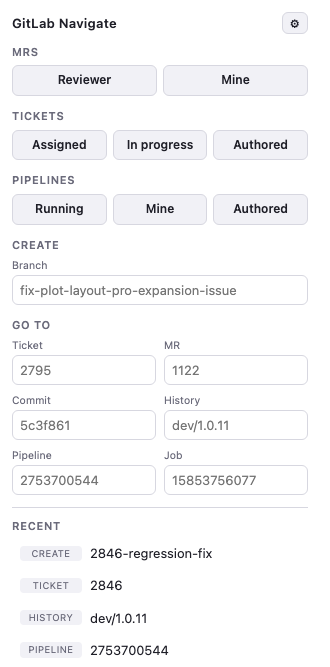
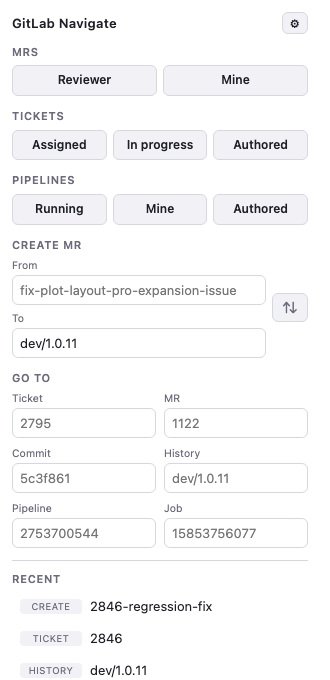
Create MR: From/To boxes with a swap control (0.15.0)

diff --git a/popup.js b/popup.js
@@ -45,8 +45,11 @@ const targetBranchError = document.getElementById('target-branch-error');
 const usernameInput = document.getElementById('username-input');
 const usernameSave = document.getElementById('username-save');
 const usernameError = document.getElementById('username-error');
-const refInputs = [...document.querySelectorAll('input[data-type]')];
+const refInputs = [...document.querySelectorAll('#refs input[data-type]')];
 const ticketInput = document.getElementById('ticket');
+const mrFrom = document.getElementById('mr-from');
+const mrTo = document.getElementById('mr-to');
+const fromToSwap = document.getElementById('from-to-swap');
 const swapMr = document.getElementById('swap-mr');
 const swapMrButton = document.getElementById('swap-mr-button');
 const mrReviewer = document.getElementById('mr-reviewer');
@@ -81,7 +84,7 @@ function errorFor(input) {
 }
 
 function setInputsEnabled(enabled) {
-  for (const input of refInputs) input.disabled = !enabled;
+  for (const input of [...refInputs, mrFrom, mrTo]) input.disabled = !enabled;
 }
 
 function openSettings() {
@@ -162,6 +165,47 @@ async function submitReference(input) {
   navigate(url);
 }
 
+async function submitCreateMr() {
+  const fromError = errorFor(mrFrom);
+  const toError = errorFor(mrTo);
+  clearError(fromError);
+  clearError(toError);
+
+  if (!mrFrom.value.trim()) {
+    showError(fromError, 'Enter a source branch name');
+    return;
+  }
+  if (!mrTo.value.trim()) {
+    showError(toError, 'Enter a target branch name');
+    return;
+  }
+
+  let url;
+  try {
+    url = buildUrl('createMr', mrFrom.value, base, mrTo.value);
+  } catch (err) {
+    if (err instanceof ParseError) {
+      showError(fromError, err.message);
+      return;
+    }
+    throw err;
+  }
+
+  await pushHistory({
+    type: 'createMr',
+    value: `${mrFrom.value.trim()} \u2192 ${mrTo.value.trim()}`,
+    url,
+  });
+  navigate(url);
+}
+
+function swapFromTo() {
+  [mrFrom.value, mrTo.value] = [mrTo.value, mrFrom.value];
+  clearError(errorFor(mrFrom));
+  clearError(errorFor(mrTo));
+  mrFrom.focus();
+}
+
 async function saveBase() {
   clearError(baseError);
 
@@ -211,8 +255,13 @@ async function saveTargetBranch() {
     return;
   }
 
+  const previous = targetBranch;
   targetBranch = trimmed;
   await setTargetBranch(targetBranch);
+
+  // Refresh the To box only while it still holds the old default, so a target the
+  // user typed by hand for this one MR survives a settings save.
+  if (!mrTo.value.trim() || mrTo.value.trim() === previous) mrTo.value = targetBranch;
 }
 
 async function saveUsername() {
@@ -273,6 +322,16 @@ baseInput.addEventListener('keydown', (event) => {
 });
 
 swapMrButton.addEventListener('click', doSwapMr);
+fromToSwap.addEventListener('click', swapFromTo);
+
+for (const input of [mrFrom, mrTo]) {
+  input.addEventListener('keydown', (event) => {
+    if (event.key !== 'Enter') return;
+    event.preventDefault();
+    submitCreateMr();
+  });
+  input.addEventListener('input', () => clearError(errorFor(input)));
+}
 
 mrReviewer.addEventListener('click', () => goToUserList(reviewerMrUrl));
 mrMine.addEventListener('click', () => goToUserList(mineMrUrl));
@@ -303,6 +362,7 @@ async function init() {
   base = await getBase();
   targetBranch = await getTargetBranch();
   username = await getUsername();
+  mrTo.value = targetBranch;
   renderHistory(await getHistory());
   checkSwapMr();
 

diff --git a/popup.html b/popup.html
@@ -92,18 +92,39 @@
     </section>
 
     <section class="group">
-      <h2>Create</h2>
-      <div class="field">
-        <label for="create-mr">Branch</label>
-        <input
-          id="create-mr"
-          data-type="createMr"
-          type="text"
-          spellcheck="false"
-          placeholder="fix-plot-layout-pro-expansion-issue"
-        />
-        <p class="error" data-error-for="create-mr" hidden></p>
+      <h2>Create MR</h2>
+      <div class="from-to">
+        <div class="field">
+          <label for="mr-from">From</label>
+          <input
+            id="mr-from"
+            type="text"
+            spellcheck="false"
+            placeholder="fix-plot-layout-pro-expansion-issue"
+          />
+          <p class="error" data-error-for="mr-from" hidden></p>
+        </div>
+
+        <div class="field">
+          <label for="mr-to">To</label>
+          <input id="mr-to" type="text" spellcheck="false" placeholder="dev/1.0.11" />
+          <p class="error" data-error-for="mr-to" hidden></p>
+        </div>
+
+        <button
+          id="from-to-swap"
+          class="from-to-swap"
+          type="button"
+          title="Swap From and To"
+          aria-label="Swap From and To"
+        >
+          &#8645;
+        </button>
       </div>
+    </section>
+
+    <section id="swap-mr" class="swap-mr" hidden>
+      <button id="swap-mr-button" type="button">&#8646; Swap source/target branches</button>
     </section>
 
     <section class="group">
@@ -147,10 +168,6 @@
           </div>
         </div>
       </form>
-    </section>
-
-    <section id="swap-mr" class="swap-mr" hidden>
-      <button id="swap-mr-button" type="button">&#8646; Swap source/target branches</button>
     </section>
 
     <section id="recent" class="recent" hidden>

diff --git a/lib/parse.js b/lib/parse.js
@@ -82,11 +82,15 @@ const builders = {
   createMr(raw, base, target) {
     const source = stripBranchPrefixes(raw);
     if (!source) throw new ParseError('Enter a source branch name');
-    if (!target) throw new ParseError('Set a default target branch first');
+
+    // The target arrives from an editable box, so it gets the same tolerance as the
+    // source: a pasted `origin/dev/1.0.12` must not become a literal branch name.
+    const targetBranch = stripBranchPrefixes(String(target ?? '').trim());
+    if (!targetBranch) throw new ParseError('Enter a target branch name');
 
     const params = new URLSearchParams({
       'merge_request[source_branch]': source,
-      'merge_request[target_branch]': target,
+      'merge_request[target_branch]': targetBranch,
     });
     return `${base}/-/merge_requests/new?${params.toString()}`;
   },

diff --git a/popup.css b/popup.css
@@ -113,6 +113,32 @@ button:hover {
   gap: 6px;
 }
 
+.from-to {
+  display: grid;
+  grid-template-columns: 1fr auto;
+  gap: 6px 6px;
+  align-items: end;
+}
+
+.from-to .field {
+  grid-column: 1;
+}
+
+/* One control spanning both rows, so the direction it flips is unambiguous. */
+.from-to-swap {
+  grid-column: 2;
+  grid-row: 1 / 3;
+  align-self: center;
+  padding: 6px 9px;
+  font-size: 15px;
+  line-height: 1;
+  color: var(--muted);
+}
+
+.from-to-swap:hover {
+  color: var(--accent);
+}
+
 .fields-grid {
   display: grid;
   grid-template-columns: 1fr 1fr;
@@ -164,7 +190,8 @@ input[type="text"]:disabled {
 }
 
 .swap-mr {
-  margin-top: 10px;
+  margin-top: -2px;
+  margin-bottom: 12px;
 }
 
 .swap-mr button {

diff --git a/test/parse.test.js b/test/parse.test.js
@@ -189,7 +189,13 @@ describe('buildUrl createMr', () => {
     );
   });
 
-  test('rejects when no target branch is configured', () => {
+  test('strips a leading origin/ from the target branch too', () => {
+    expect(buildUrl('createMr', 'my-branch', BASE, 'origin/dev/1.0.12')).toBe(
+      `${BASE}/-/merge_requests/new?merge_request%5Bsource_branch%5D=my-branch&merge_request%5Btarget_branch%5D=dev%2F1.0.12`,
+    );
+  });
+
+  test('rejects when no target branch is given', () => {
     expect(() => buildUrl('createMr', 'my-branch', BASE, '')).toThrow(ParseError);
   });
 

diff --git a/docs/superpowers/specs/2026-08-04-gitlab-navigate-design.md b/docs/superpowers/specs/2026-08-04-gitlab-navigate-design.md
@@ -58,7 +58,8 @@ Fixed-width popup (~320px). Top to bottom:
    - **MRs** — the Reviewer and Mine buttons, side by side.
    - **Tickets** — the Assigned, In progress and Authored buttons, side by side.
    - **Pipelines** — the Running, Mine and Authored buttons, side by side.
-   - **Create** — the createMr branch box.
+   - **Create MR** — a `.from-to` grid: the From and To boxes stacked in column one,
+     with a ⇅ swap button spanning both rows in column two.
    - **Go to** — a `.fields-grid`, two columns wide, holding one `.field` per
      remaining `buildUrl` type.
    Each `.field` is a flex column: a small sentence-case caption label, the text input,
@@ -68,7 +69,8 @@ Fixed-width popup (~320px). Top to bottom:
    labels are sentence case so they do not read as section headings, which are
    uppercase. In a grid row the error grows its own cell only, leaving its neighbour
    top-aligned.
-4. "Swap source/target branches" button (hidden unless the active tab qualifies, see
+4. "Swap source/target branches" button, immediately beneath Create MR so both
+   branch-direction controls sit together (hidden unless the active tab qualifies, see
    Data Flow).
 5. "Recent" section: up to 8 entries, each a row with a nav button (type badge +
    value, click to reopen) and a 🗑 delete button that's invisible until the row is
@@ -172,10 +174,13 @@ single input to the right one — they get their own boxes.
 `createMr` does not build a page that already exists (like every other type) — it
 builds GitLab's *new*-MR form pre-filled via query string, using GitLab's own
 `merge_request[source_branch]` / `merge_request[target_branch]` parameter names, so
-GitLab is not left to default the target to `main`. The target branch is a second
-setting (`targetBranch`, `chrome.storage.sync`) rather than a fifth text box, since it
-changes far less often than the source branch and belongs with the repo URL as
-one-time setup.
+GitLab is not left to default the target to `main`. Both ends get the same
+`stripBranchPrefixes` tolerance, because both now arrive from editable boxes.
+
+`targetBranch` in `chrome.storage.sync` remains the *default* for the To box rather
+than the only source of the target: it still changes far less often than the source
+branch, so it stays a setting, but it seeds an editable field instead of being applied
+invisibly. That is what makes a reverse MR possible without touching settings.
 
 Anything that fails its pattern throws a `ParseError` carrying a short human message.
 
@@ -245,7 +250,14 @@ no base URL is stored, the settings row is expanded, the reference inputs are
 disabled, and the base input is focused. Otherwise the inputs are enabled, history
 renders, and the Ticket input is focused.
 
-**On Enter in an input:** call `buildUrl(type, value, base)`. On success, call
+**On Enter in a From or To box:** `submitCreateMr()` reads *both* boxes regardless of
+which one has focus, checks each for emptiness so the error lands on the offending
+field, then calls `buildUrl('createMr', from, base, to)`. The ⇅ button swaps the two
+values in place and navigates nowhere. Create MR is therefore no longer part of the
+generic `[data-type]` dispatch — that path assumes one box yields one URL — which is
+why `refInputs` is scoped back to `#refs`.
+
+**On Enter in a Go to input:** call `buildUrl(type, value, base)`. On success, call
 `chrome.tabs.create({ url })`, `pushHistory(...)`, clear the input, and
 `window.close()`. On `ParseError`, show the message in that row's error span and leave
 the input as it is.

diff --git a/README.md b/README.md
@@ -94,15 +94,19 @@ ref rather than just the default branch:
 - **Authored** — every pipeline you triggered, in any state. No `status` filter, so
   this is a superset of **Mine**.
 
-## Create
+## Create MR
 
-One box: paste a source branch, press Enter, and GitLab's new-merge-request page opens
-with that source branch and your configured default target branch already selected —
-no more re-picking the target away from `main` every time.
+Two boxes. **From** takes the source branch; **To** is pre-filled with your default MR
+target branch and can be edited for a one-off. Press Enter in either and GitLab's
+new-merge-request page opens with both ends already selected — no re-picking the target
+away from `main` every time.
 
-| Box    | You type                              | It opens                                                       |
-|--------|---------------------------------------|----------------------------------------------------------------|
-| Branch | `fix-plot-layout-pro-expansion-issue` | new MR page, that branch as source, your default target branch |
+The **⇅** button between them swaps From and To. That covers the reverse direction:
+with `dev/1.0.12` as your default target, one click makes it the *source* so you can
+diff it against a feature branch.
+
+Both ends accept a leading `origin/` or `refs/heads/`, so pasting straight from
+`git branch -a` works.
 
 ## Go to
 
@@ -134,8 +138,8 @@ badge sits in a fixed-width column so every value lines up at the same left edge
 ## Swap branches on a "new merge request" page
 
 If GitLab's active tab is already on a `.../-/merge_requests/new?...` page (typically
-because you got there via the Create box), the popup shows a **Swap
-source/target branches** button. Click it and that tab reloads with source and
+because you got there via Create MR), the popup shows a **Swap
+source/target branches** button, directly beneath the Create MR section. Click it and that tab reloads with source and
 target swapped — handy when GitLab reports "these branches already have an open
 merge request" and you actually meant it the other way round.
 

diff --git a/CHANGELOG.md b/CHANGELOG.md
@@ -1,5 +1,22 @@
 # Changelog
 
+## 0.15.0
+
+- **Create** is now **Create MR** and takes both ends of the merge request: the old
+  Branch box became **From**, and a new **To** box below it is pre-filled with your
+  default MR target branch but is editable per MR.
+- A ⇅ button between them swaps From and To, so raising the reverse MR — diffing your
+  target branch against a feature branch — is one click instead of retyping.
+- Enter in either box creates the MR.
+- The target branch now tolerates the same prefixes the source always did, so a pasted
+  `origin/dev/1.0.12` resolves to `dev/1.0.12` rather than becoming a literal branch
+  name.
+- Saving a new default target branch refreshes the To box only while it still holds the
+  old default, so a target typed by hand for one MR is not clobbered.
+- Moved the on-page "Swap source/target branches" button up, directly beneath Create
+  MR, so the two branch-direction controls sit together.
+- Recent entries for created MRs now read `from → to`, since the direction is the point.
+
 ## 0.14.1
 
 - Added popup screenshots to the README, in both colour schemes, served via `<picture>`
